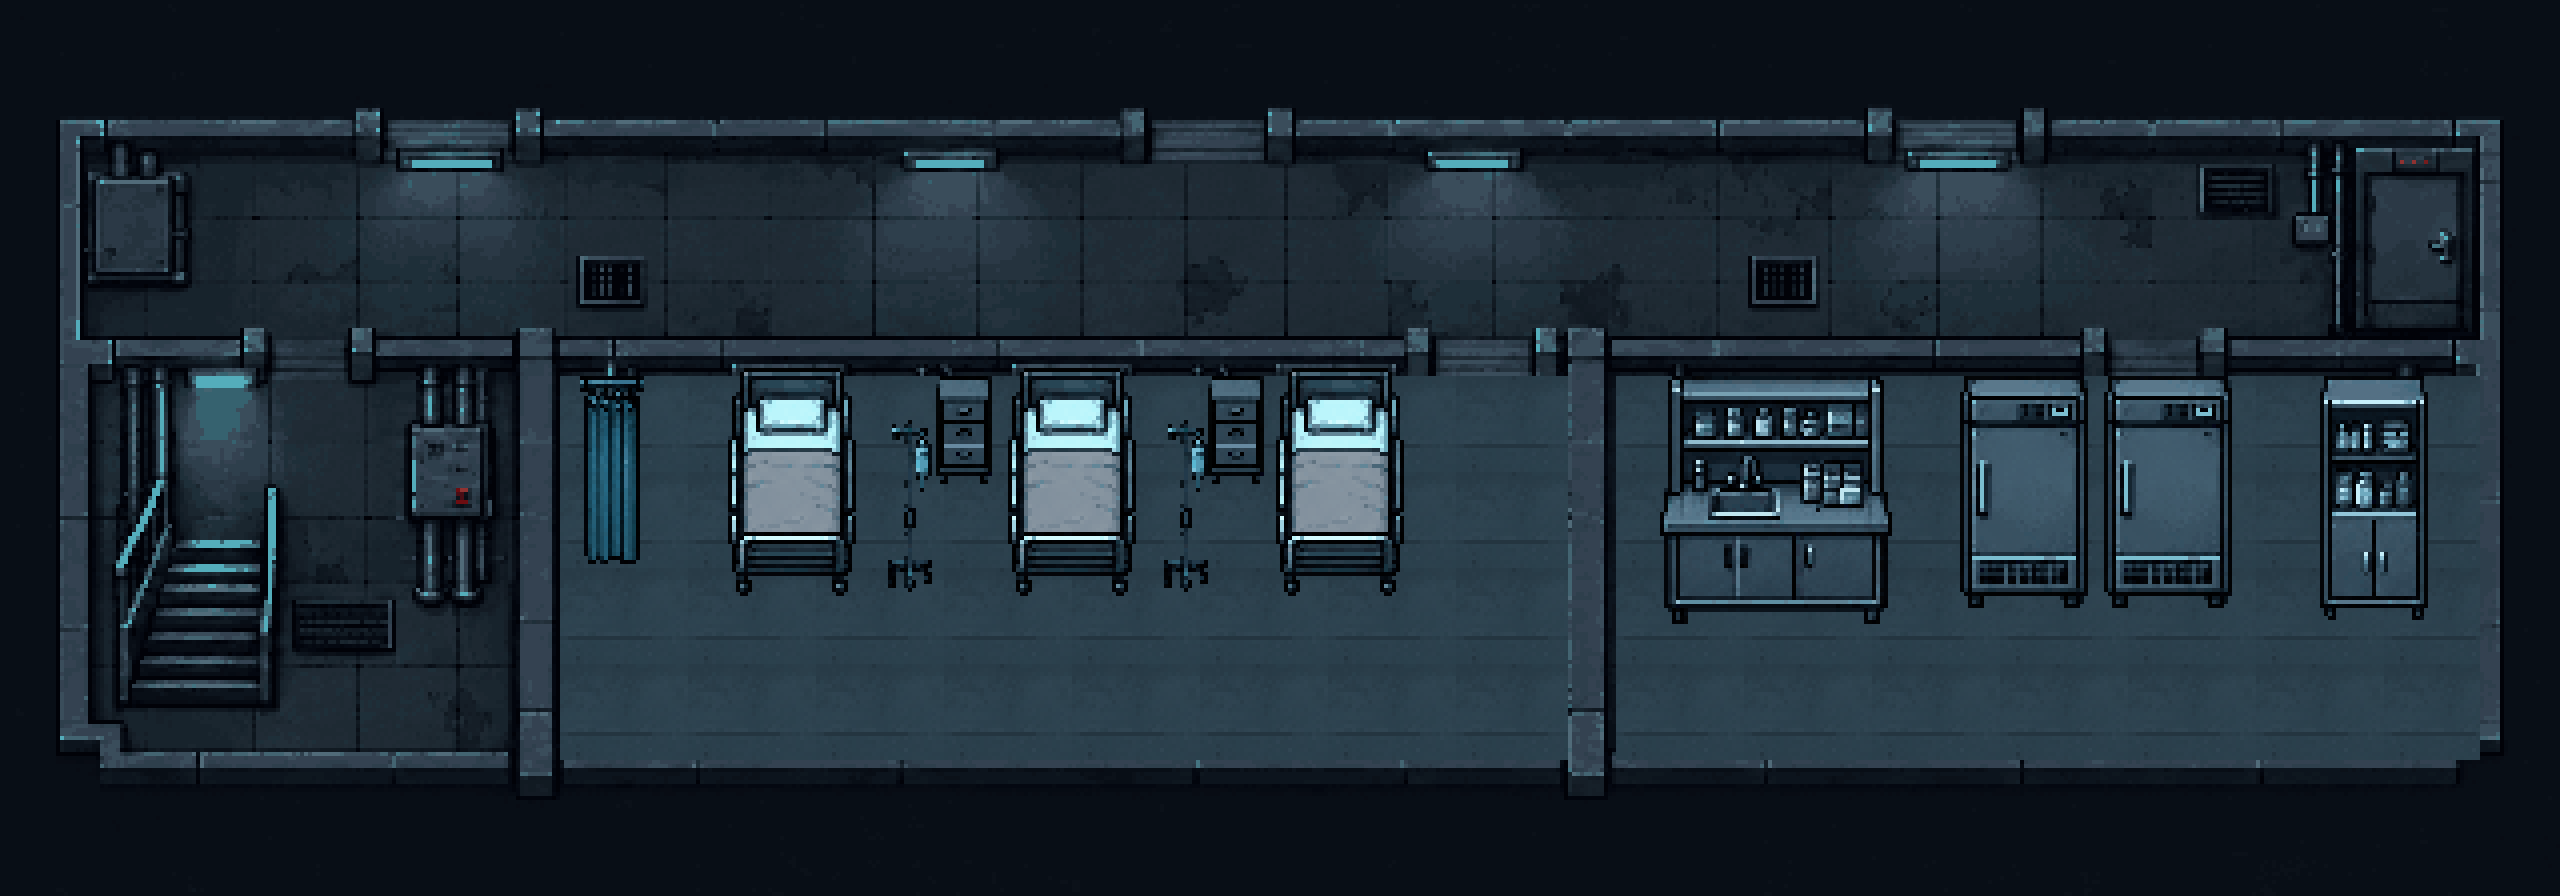
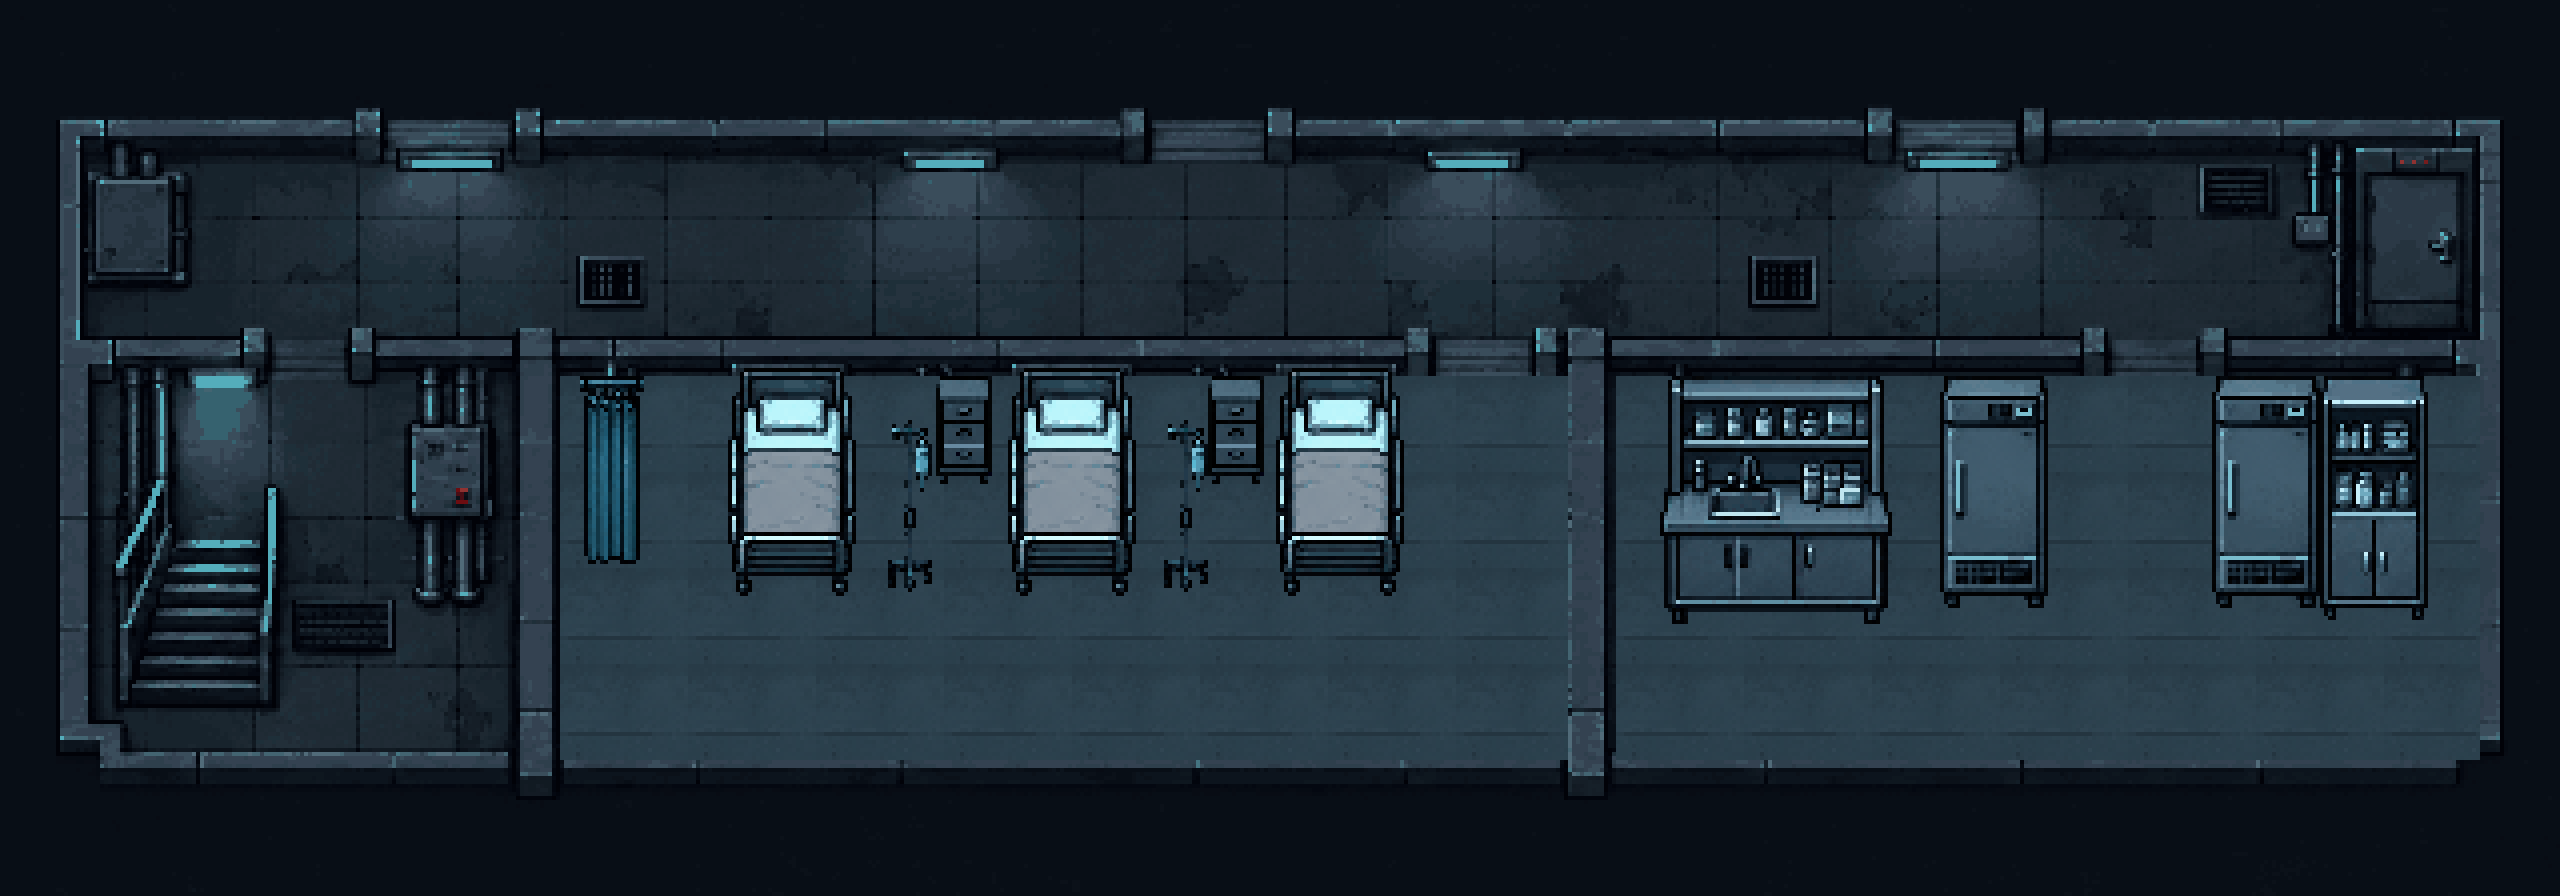
Keep the pharmacy doorway clear and verify real daytime passage

Changed region(s): [[0.75, 0.4062, 0.9062, 0.6875]]

diff --git a/tools/art/import_hospital_layout_v18.py b/tools/art/import_hospital_layout_v18.py
@@ -21,7 +21,7 @@ PROP_OUT = META / "native_props"
 GRID = ([0, 345, 655, 945, 1273], [0, 340, 640, 930, 1236])
 PROPS = [
     ("bed", (32, 57)), ("bedside", (14, 27)), ("iv", (11, 43)), ("curtain", (16, 47)),
-    ("pharmacy", (58, 62)), ("fridge", (32, 58)), ("supplies", (27, 61)), ("bench", (53, 24)),
+    ("pharmacy", (58, 62)), ("fridge", (27, 58)), ("supplies", (27, 61)), ("bench", (53, 24)),
     ("locker", (16, 36)), ("sink", (27, 30)), ("drawer", (19, 45)), ("monitor_cart", (24, 32)),
     ("small_files", (16, 31)), ("archive", (31, 42)), ("office_locker", (20, 43)), ("plant", (14, 23)),
 ]
@@ -29,7 +29,7 @@ PLACEMENTS = {
     1: [
         ("curtain", (145, 94)), ("bed", (182, 92)), ("bed", (252, 92)), ("bed", (319, 92)),
         ("bedside", (234, 94)), ("bedside", (302, 94)), ("iv", (222, 105)), ("iv", (291, 105)),
-        ("pharmacy", (415, 94)), ("fridge", (490, 94)), ("fridge", (526, 94)), ("supplies", (580, 94)),
+        ("pharmacy", (415, 94)), ("fridge", (485, 94)), ("fridge", (553, 94)), ("supplies", (580, 94)),
     ],
     2: [
         ("plant", (24, 43)), ("bench", (43, 43)), ("locker", (175, 43)),
@@ -109,7 +109,7 @@ def update_layout() -> dict:
               "ward_cabinet_a": [234, 94, 14, 27], "ward_cabinet_b": [302, 94, 14, 27],
               "ward_iv_a": [222, 141, 11, 7], "ward_iv_b": [291, 141, 11, 7],
               "ward_curtain": [145, 94, 16, 47], "medical_shelves": [415, 94, 58, 40],
-              "lab_bench": [415, 134, 58, 22], "refrigerators": [490, 94, 68, 58],
+              "lab_bench": [415, 134, 58, 22], "refrigerators": [485, 94, 27, 58],
               "east_supplies": [580, 94, 27, 61]},
         "2": {"reception_desk": [103, 43, 71, 40], "waiting_seats": [43, 43, 53, 24],
               "reception_cabinet": [175, 43, 16, 36], "surgery_table": [289, 76, 31, 43],
@@ -122,14 +122,17 @@ def update_layout() -> dict:
             if item["id"] in updates:
                 item["rect"] = updates[item["id"]]
         floors[floor]["furniture_registration"] = "res://art_metadata/hospital_layout_v18/import_record.json"
+    # Keep both refrigerators against the wall on opposite sides of the only
+    # storage doorway. A single bounding box must never bridge its clear gap.
+    floors["1"]["colliders"].append({"id": "refrigerator_east", "rect": [553, 94, 27, 58]})
     floors["2"]["colliders"].extend([
         {"id": "treatment_drawer", "rect": [252, 43, 19, 45]},
         {"id": "treatment_curtain", "rect": [203, 43, 16, 47]},
         {"id": "office_small_files", "rect": [428, 43, 16, 31]},
         {"id": "reception_plant", "rect": [24, 43, 14, 23]},
     ])
-    floors["1"]["monitors"] = [{"id": "cold_led_0", "rect": [513, 102, 4, 2]},
-                                   {"id": "cold_led_1", "rect": [549, 102, 4, 2]}]
+    floors["1"]["monitors"] = [{"id": "cold_led_0", "rect": [505, 102, 3, 2]},
+                                   {"id": "cold_led_1", "rect": [573, 102, 3, 2]}]
     floors["2"]["monitors"] = [{"id": "upper_screen_0", "rect": [114, 52, 7, 5]},
                                    {"id": "upper_screen_1", "rect": [363, 46, 11, 8]},
                                    {"id": "upper_screen_2", "rect": [554, 54, 8, 7]}]
@@ -144,6 +147,8 @@ def update_layout() -> dict:
             item["anchors"]["top_down"] = [132, 96]
         elif item["id"] == "duty_record":
             item["anchors"]["top_down"] = [574, 106]
+        elif item["id"] == "cold_cabinet":
+            item["anchors"]["top_down"] = [499, 164]
     data["interactions"].append({
         "id": "treatment_drawer", "title": "水槽旁抽屉", "floor_id": 2,
         "room_id": "treatment", "kind": "inspect", "anchors": {"top_down": [261, 100]},
